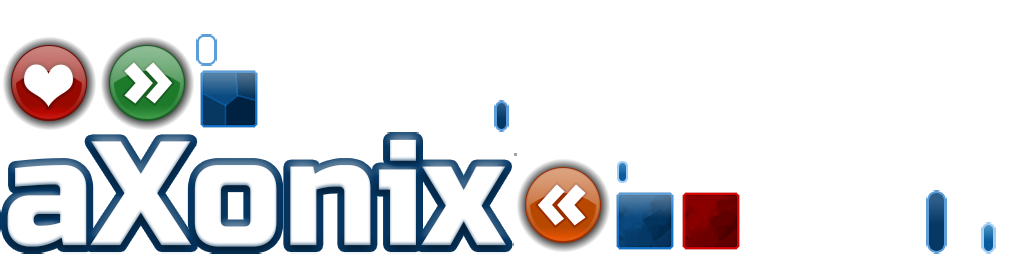
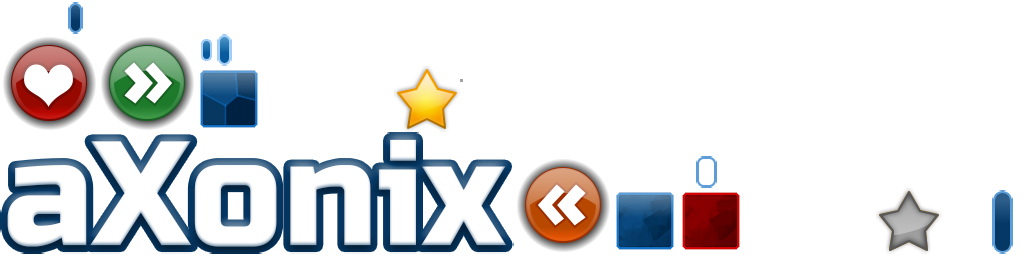
Add the "star" rating for levels

diff --git a/sources/Main/src/main/net/ivang/axonix/main/actors/levels/LevelButton.java b/sources/Main/src/main/net/ivang/axonix/main/actors/levels/LevelButton.java
@@ -17,8 +17,13 @@
 package net.ivang.axonix.main.actors.levels;
 
 import com.badlogic.gdx.scenes.scene2d.Actor;
+import com.badlogic.gdx.scenes.scene2d.ui.Image;
+import com.badlogic.gdx.scenes.scene2d.ui.Table;
 import com.badlogic.gdx.scenes.scene2d.ui.TextButton;
 import com.badlogic.gdx.scenes.scene2d.utils.ChangeListener;
+import com.badlogic.gdx.scenes.scene2d.utils.Drawable;
+import com.badlogic.gdx.utils.Scaling;
+import com.esotericsoftware.tablelayout.Cell;
 import com.google.common.eventbus.EventBus;
 import net.ivang.axonix.main.events.facts.ButtonClickFact;
 import net.ivang.axonix.main.events.intents.screen.GameScreenIntent;
@@ -30,10 +35,29 @@ import net.ivang.axonix.main.events.intents.screen.GameScreenIntent;
 public class LevelButton extends TextButton {
 
     private final int levelIndex;
+    private Image[] starsArray;
+    private Cell starsCell;
+    private Style style;
 
-    public LevelButton(final int levelIndex, TextButtonStyle style, final EventBus eventBus) {
-        super(Integer.toString(levelIndex), style);
+    public LevelButton(final int levelIndex, Style style, final EventBus eventBus) {
+        super(Integer.toString(levelIndex), style.buttonStyle);
         this.levelIndex = levelIndex;
+        this.starsArray = new Image[3];
+        this.style = style;
+
+        row();
+
+        Table starTable = new Table();
+        starTable.pad(0, 2, 0, 2);
+
+        for (int i = 0; i < 3; i++) {
+            starsArray[i] = new Image();
+            starsArray[i].setScaling(Scaling.fit);
+            starTable.add(starsArray[i]);
+        }
+
+        starsCell = add(starTable);
+
         addListener(new ChangeListener() {
             public void changed(ChangeEvent event, Actor actor) {
                 eventBus.post(new ButtonClickFact());
@@ -42,11 +66,34 @@ public class LevelButton extends TextButton {
         });
     }
 
+    public void setRating(int stars) {
+        for (int i = 0; i < starsArray.length; i++) {
+            Drawable star = (i < stars) ? style.starOn : style.starOff;
+            starsArray[i].setDrawable(star);
+        }
+    }
+
+    public void setStyle(Style style) {
+        starsCell.height(style.starsHeight);
+        super.setStyle(style.buttonStyle);
+        this.style = style;
+    }
+
     //---------------------------------------------------------------------
     // Getters & Setters
     //---------------------------------------------------------------------
 
     public int getLevelIndex() {
         return levelIndex;
+    }
+
+    //---------------------------------------------------------------------
+    // Nested Classes
+    //---------------------------------------------------------------------
+
+    public static class Style {
+        public TextButtonStyle buttonStyle;
+        public Drawable starOn, starOff;
+        public float starsHeight;
     }
 }

diff --git a/sources/Main/src/main/net/ivang/axonix/main/screens/LevelsScreen.java b/sources/Main/src/main/net/ivang/axonix/main/screens/LevelsScreen.java
@@ -19,7 +19,6 @@ package net.ivang.axonix.main.screens;
 import com.badlogic.gdx.InputMultiplexer;
 import com.badlogic.gdx.scenes.scene2d.ui.ScrollPane;
 import com.badlogic.gdx.scenes.scene2d.ui.Table;
-import com.badlogic.gdx.scenes.scene2d.ui.TextButton;
 import com.esotericsoftware.tablelayout.Cell;
 import com.google.common.eventbus.EventBus;
 import com.google.common.eventbus.Subscribe;
@@ -31,8 +30,6 @@ import net.ivang.axonix.main.events.intents.DefaultIntent;
 import net.ivang.axonix.main.events.intents.screen.GameScreenIntent;
 import net.ivang.axonix.main.events.intents.screen.StartScreenIntent;
 import net.ivang.axonix.main.preferences.PreferencesWrapper;
-
-import static com.badlogic.gdx.scenes.scene2d.ui.TextButton.TextButtonStyle;
 
 /**
  * @author Ivan Gadzhega
@@ -104,7 +101,7 @@ public class LevelsScreen extends BaseScreen {
     @Override
     protected void applyStyle() {
         for(Cell cell : levelsTable.getCells()) {
-            TextButton button = (TextButton) cell.getWidget();
+            LevelButton button = (LevelButton) cell.getWidget();
             if (button != null) {
                 button.setStyle(style.button);
             }
@@ -118,13 +115,26 @@ public class LevelsScreen extends BaseScreen {
         if (levelIndex == 1 || preferences.containsLives(levelIndex - 1)) {
             button.setColor(1f, 1f, 1f, 1f);
             button.setDisabled(false);
+            // update the "star" rating
+            int levelRating = getRatingByScore(levelIndex);
+            button.setRating(levelRating);
+            // update default level index
             if (defaultLevelIndex < levelIndex) {
                 defaultLevelIndex = levelIndex;
             }
         } else {
             button.setColor(1f, 1f, 1f, 0.35f);
             button.setDisabled(true);
+            button.setRating(0);
         }
+    }
+
+    private int getRatingByScore(int levelIndex) {
+        int score = preferences.getLevelScore(levelIndex);
+        if (score > 1000) return 3;
+        if (score > 750)  return 2;
+        if (score > 500)  return 1;
+        return 0;
     }
 
     //---------------------------------------------------------------------
@@ -132,7 +142,7 @@ public class LevelsScreen extends BaseScreen {
     //---------------------------------------------------------------------
 
     public static class Style {
-        public TextButtonStyle button;
+        public LevelButton.Style button;
         public float buttonWidth;
         public float buttonHeight;
         public float buttonPad;

diff --git a/sources/Main/src/main/net/ivang/axonix/main/screens/BaseScreen.java b/sources/Main/src/main/net/ivang/axonix/main/screens/BaseScreen.java
@@ -108,9 +108,9 @@ public abstract class BaseScreen implements Screen {
         }
     }
 
-    protected void setStyleByName(String styleName) { }
+    protected abstract void setStyleByName(String styleName);
 
-    protected void applyStyle() { }
+    protected abstract void applyStyle();
 
     protected void setStyleByName(String styleName, boolean apply) {
         setStyleByName(styleName);
